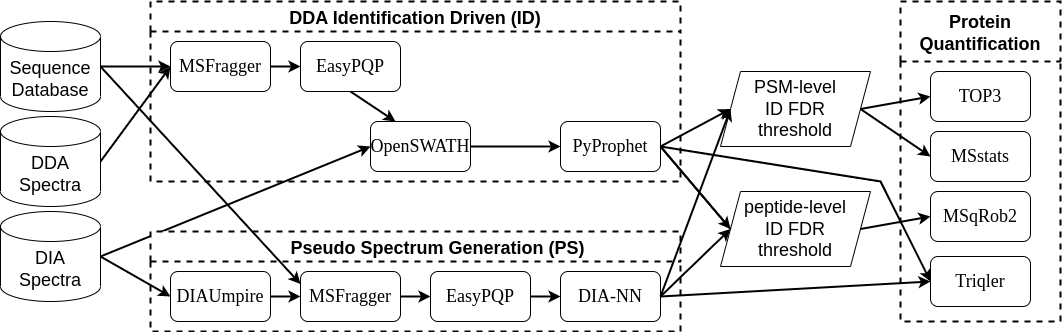
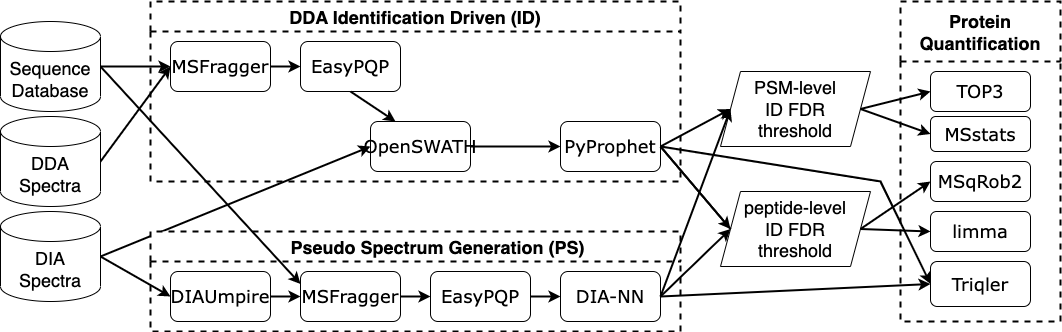
updated figure

diff --git a/doc/benchmark/benchmark.tex b/doc/benchmark/benchmark.tex
@@ -90,7 +90,7 @@ We used two separate strategies to generate peptide abundances from the DIA runs
     \centering
     \includegraphics[width=1.0\linewidth]{./img/methods.png} 
     \caption{{\bf The DDA identification-driven matching (ID) and pseudo-spectrum workflow pipelines (PS).} In the pipelines DIA-Umpire(SE), MSFragger and EasyPQP are run from Fragpipe (\protect\url{https://fragpipe.nesvilab.org/}). A 1\% PSM-level identification threshold was applied to Top3 and MSstats, a 1\% peptide-level threshold to MSqRob2, while all the identifications were provided unfiltered to Triqler. \label{fig:flowchart}}  
-    \todo[inline]{I will include limma in the plot.-LK}    
+    \todo[inline]{Is limma included the right way?}    
 \end{figure}
 
 
